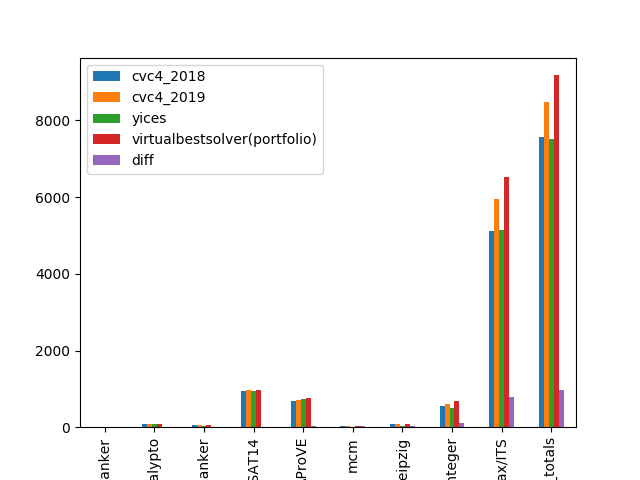
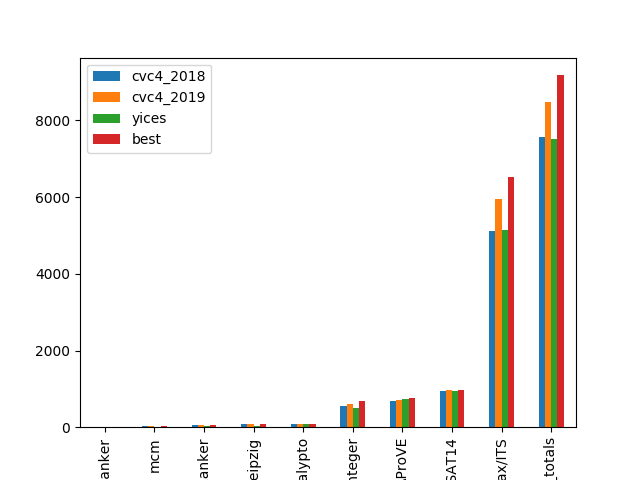
.

diff --git a/PI-Aug-2019-stats/scripts/gen_plots.py b/PI-Aug-2019-stats/scripts/gen_plots.py
@@ -12,6 +12,8 @@ def new_names(columns):
             result.append("cvc4_2019")
         elif "yices" in c:
             result.append("yices")
+        elif "best" in c:
+            result.append("best")
         else:
             result.append(c)
     return result
@@ -26,6 +28,13 @@ def to_int(x):
             return x
     return result
 
+def highlight_max(s):    
+    is_max = s == s.max()
+    if (len([v for v in s if v == is_max]) != 1):
+        return ''
+    else:
+        return ['background-color: red' if v else '' for v in is_max]
+
 def gen_diff(d): 
     if "yices" in d.columns:
         return abs(data["cvc4_2019"] - data["yices"])
@@ -39,11 +48,17 @@ for csv_file in os.listdir(cluster_csv_dir):
     data = ps.read_csv(cluster_csv_dir + "/" + csv_file)
     data = data.applymap(to_int)
     data.columns = new_names(data.columns)
-    data["diff"] = gen_diff(data)
-    data.sort_values("diff", inplace=True)
+    print("panda", data.columns)
+    if "best" in data.columns:
+        data.sort_values("best", inplace=True)
     data = data.tail(10)
     print(data)
     p = data.plot(kind='bar', x="DIRECTORY")
     f = p.get_figure()
     f.savefig('/home/yoniz/git/hermes/PI-Aug-2019-stats/plots/' + csv_file + '.png')
+    data.style.apply(highlight_max)
+    tab = data.style.render()
+    with open('/home/yoniz/git/hermes/PI-Aug-2019-stats/tables/' + csv_file + '.html', 'w') as f:
+        f.write(tab)
 
+    
